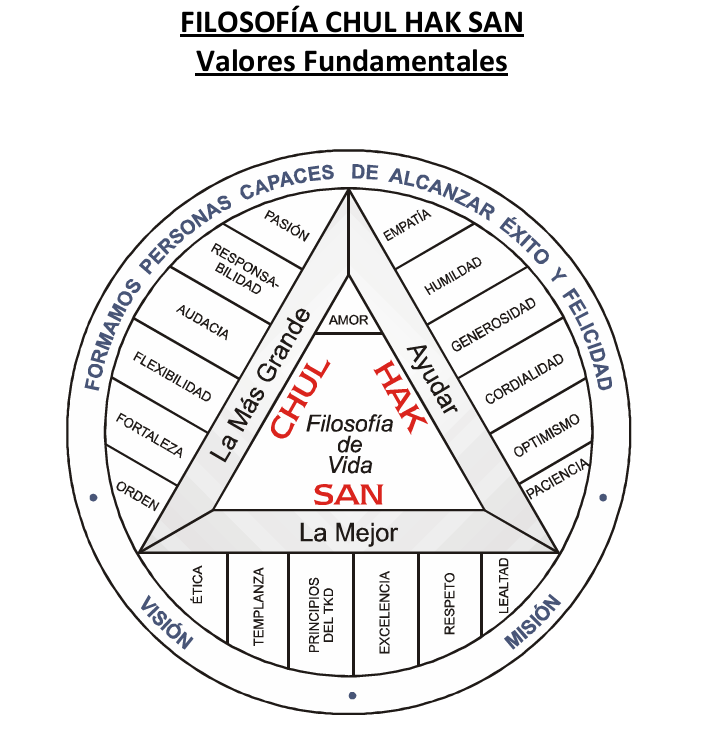
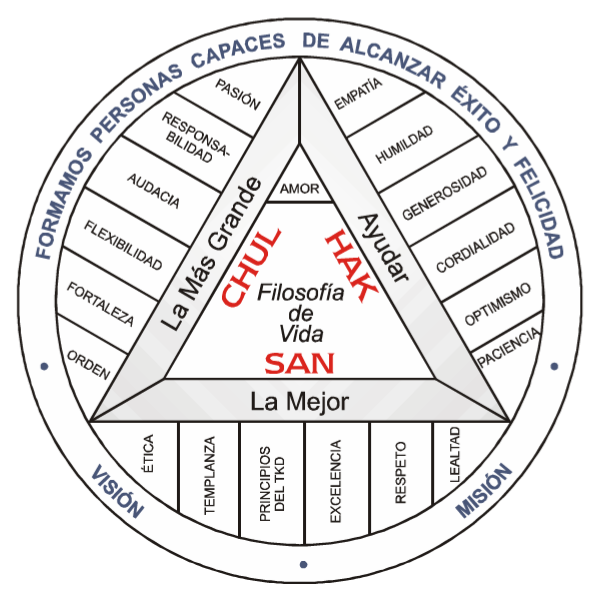
StudentView

diff --git a/frontend/src/components/ui/BottomNavBar.tsx b/frontend/src/components/ui/BottomNavBar.tsx
@@ -34,9 +34,9 @@ export function BottomNavBar() {
             >
               <div className={`
                 flex items-center justify-center rounded-full w-14 h-8 transition-all duration-300
-                ${isActive ? 'bg-primary/10 dark:bg-primary/20' : 'bg-transparent'}
+                ${isActive ? 'bg-primary text-white shadow-soft' : 'bg-transparent'}
               `}>
-                <span className={`material-symbols-outlined text-[24px] ${isActive ? 'font-bold' : ''}`}>
+                <span className={`material-symbols-outlined text-[24px] ${isActive ? 'font-bold text-white' : ''}`}>
                   {item.icon}
                 </span>
               </div>

diff --git a/frontend/src/shared/components/MobileNavBar.tsx b/frontend/src/shared/components/MobileNavBar.tsx
@@ -25,8 +25,8 @@ export function MobileNavBar() {
               to={navItem.path}
               className={`flex flex-col items-center justify-center w-full h-full gap-1 transition-all duration-300 ${isSelected ? 'text-primary' : 'text-muted hover:text-text'}`}
             >
-              <div className={`flex items-center justify-center rounded-full w-14 h-8 transition-all duration-300 ${isSelected ? 'bg-primary/10 dark:bg-primary/20' : 'bg-transparent'}`}>
-                <span className={`material-symbols-outlined text-[24px] ${isSelected ? 'font-bold' : ''}`}>
+              <div className={`flex items-center justify-center rounded-full w-14 h-8 transition-all duration-300 ${isSelected ? 'bg-primary text-white shadow-soft' : 'bg-transparent'}`}>
+                <span className={`material-symbols-outlined text-[24px] ${isSelected ? 'font-bold text-white' : ''}`}>
                   {navItem.icon}
                 </span>
               </div>

diff --git a/frontend/src/modules/student/components/StudentUI.tsx b/frontend/src/modules/student/components/StudentUI.tsx
@@ -21,7 +21,7 @@ export function ProfileAvatar({ fullName, gymName }: { fullName: string; gymName
     <div className="flex p-4 @container">
       <div className="flex w-full flex-col gap-4 items-center">
         <div className="flex gap-4 flex-col items-center">
-          <div className="bg-primary/10 text-primary flex items-center justify-center rounded-full h-28 w-28">
+          <div className="bg-primary text-white flex items-center justify-center rounded-full h-28 w-28 shadow-soft">
             <span className="material-symbols-outlined text-4xl">person</span>
           </div>
           <div className="flex flex-col items-center justify-center">

diff --git a/frontend/src/modules/student/views/StudentDetailsView.tsx b/frontend/src/modules/student/views/StudentDetailsView.tsx
@@ -48,7 +48,7 @@ export function StudentDetailsView() {
       <InfoRow icon="phone" label="Teléfono" value={student?.phone ?? '-'} />
       <InfoRow icon="mail" label="Correo electrónico" value={student?.email ?? '-'} />
       <InfoRow icon="home" label="Dirección" value={student?.address ?? '-'} />
-      <InfoRow icon="military_tech" label="Cinturón actual" value={beltLabel(student?.currentBelt)} />
+      <InfoRow icon="sports_martial_arts" label="Cinturón actual" value={beltLabel(student?.currentBelt)} />
       <InfoRow icon="class" label="Clase" value={student?.classGroup?.name ?? '-'} />
 
       {isTeacher && (

diff --git a/frontend/src/modules/student/views/StudentProfileView.tsx b/frontend/src/modules/student/views/StudentProfileView.tsx
@@ -40,7 +40,7 @@ export function StudentProfileView() {
             <div className="bg-surface rounded-2xl p-4 shadow-soft border border-border transition-colors duration-300">
               <h3 className="text-sm uppercase tracking-[0.2em] text-primary font-bold">Profesor Actual</h3>
               <div className="mt-3 flex items-center gap-3">
-                <div className="h-12 w-12 rounded-full bg-primary/10 flex items-center justify-center text-primary">
+                <div className="h-12 w-12 rounded-full bg-primary flex items-center justify-center text-white">
                   <span className="material-symbols-outlined">sports_martial_arts</span>
                 </div>
                 <div>